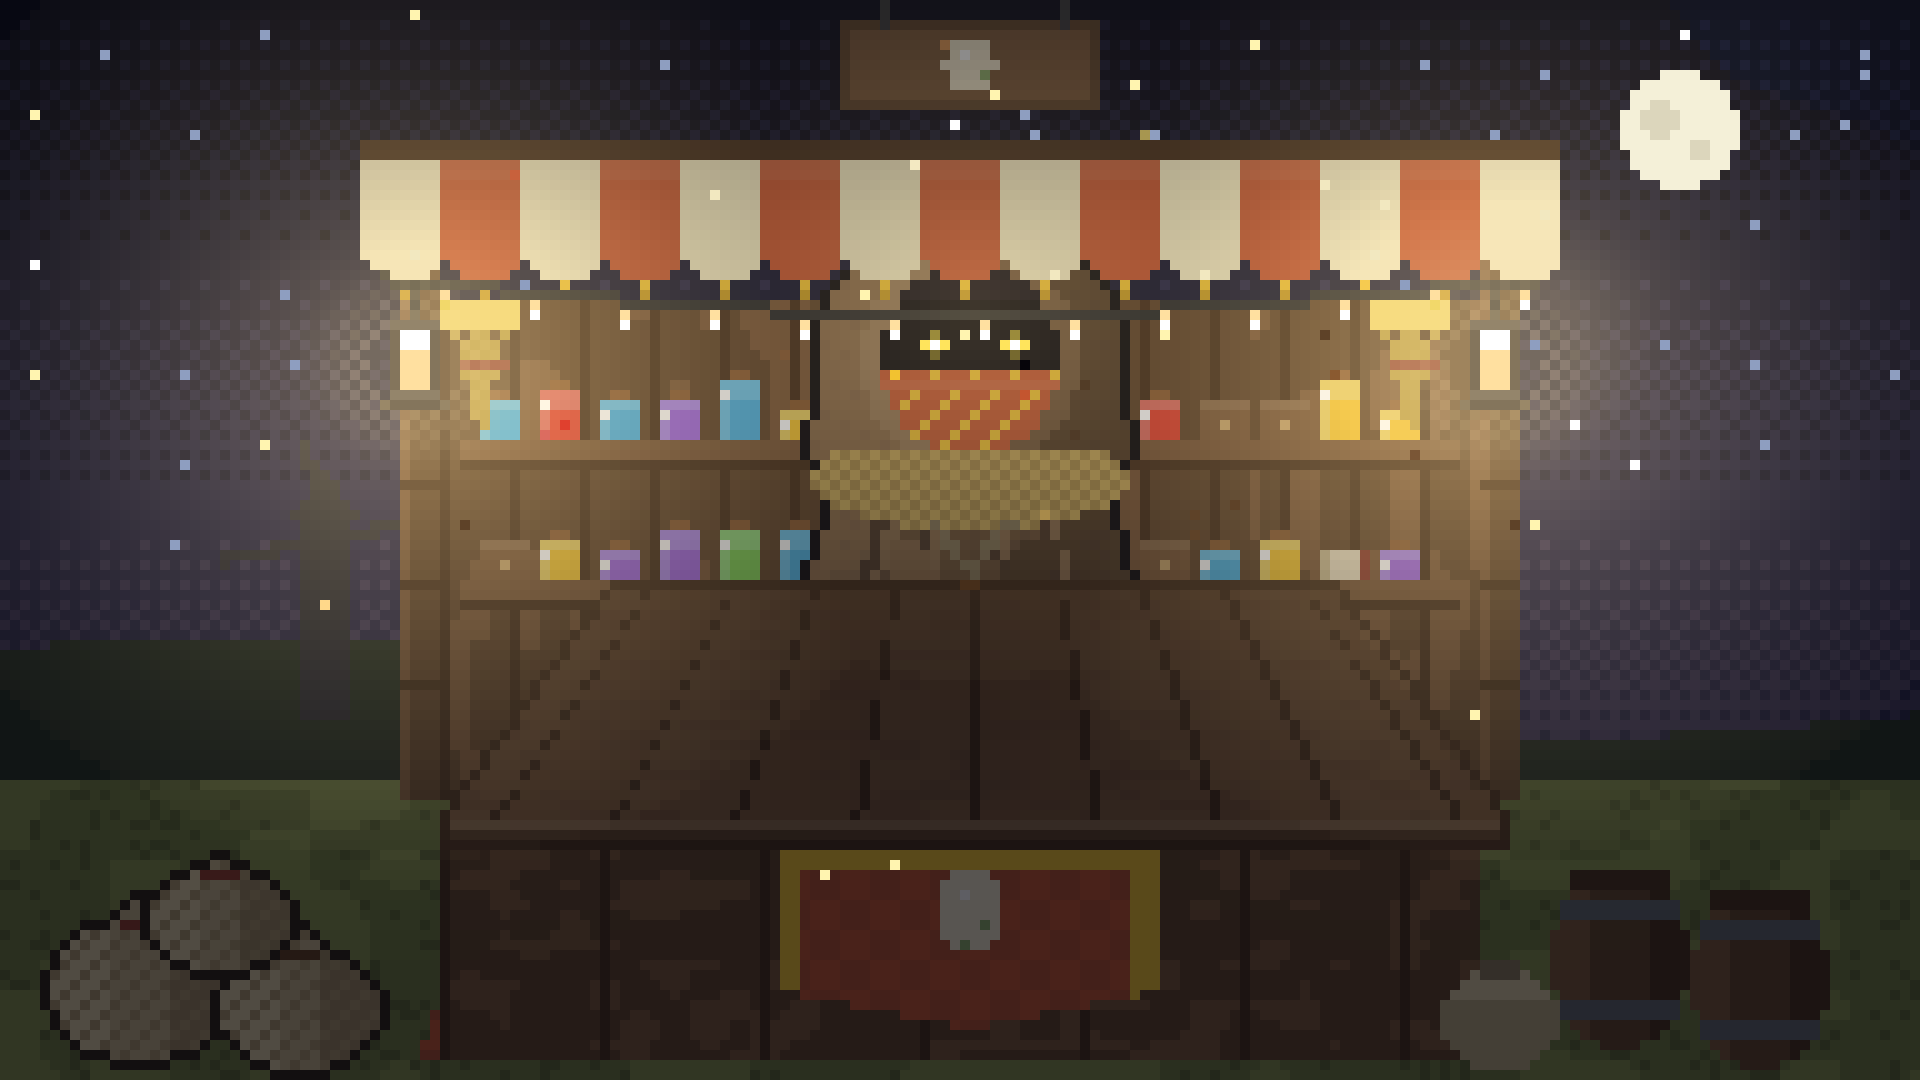
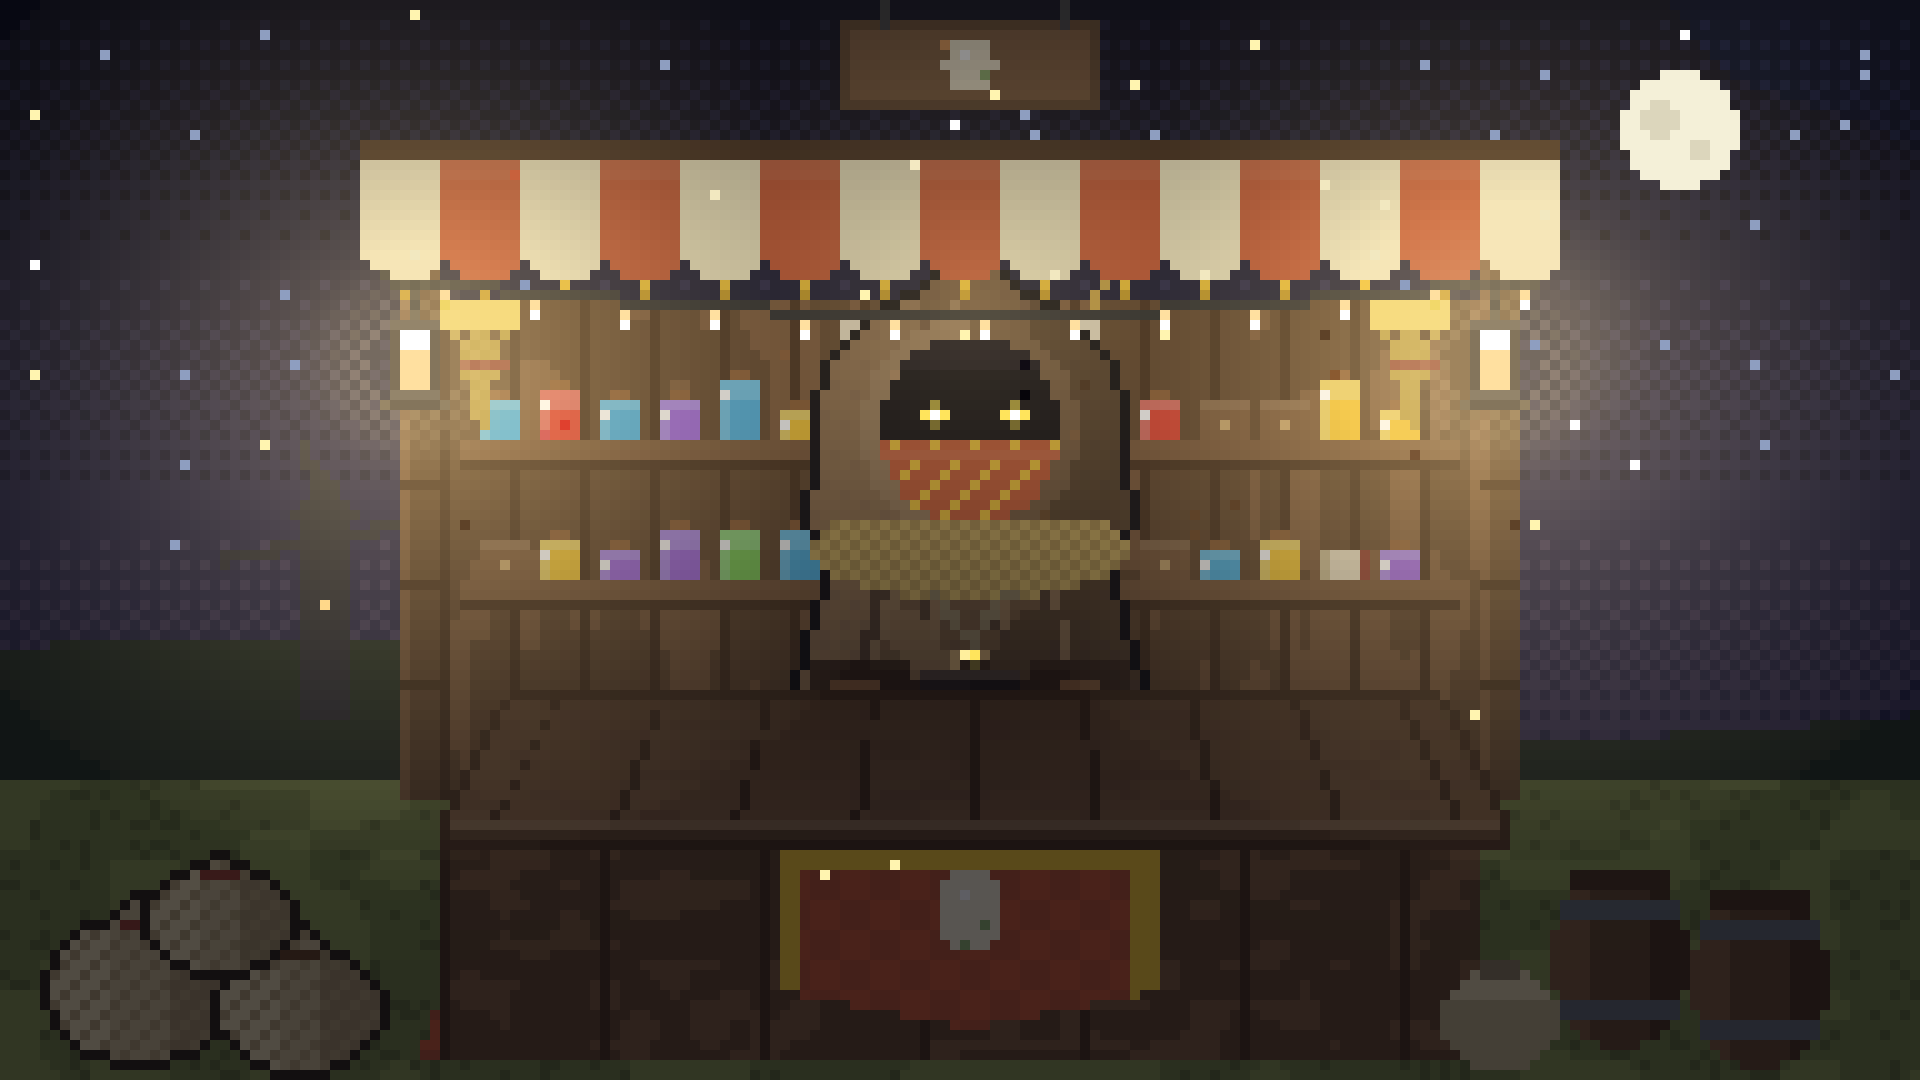
Marchands : plateau du comptoir à peine plus profond que les caisses, et étroit

Changed region(s): [[0.3125, 0.2444, 0.75, 0.6417], [0.5938, 0.6111, 0.625, 0.6417], [0.3438, 0.6111, 0.375, 0.6417]]

diff --git a/style.css b/style.css
@@ -699,7 +699,7 @@
   .dp-luck-pips span { width: 9px; height: 9px; border-radius: 50%; border: 1.5px solid rgba(255,255,255,0.7); }
   .dp-luck-pips span.on { background: #6fd36f; border-color: #6fd36f; }
   .dp-luck-hint { font-size: 11px; opacity: 0.75; }
-  .dp-merchant-table { position: absolute; left: 50%; bottom: 30%; transform: translateX(-50%); z-index: 2; display: flex; gap: calc(var(--u) * 0.6); padding: 0; flex-wrap: nowrap; justify-content: center; align-items: flex-end; width: 56%; }
+  .dp-merchant-table { position: absolute; left: 50%; bottom: 28.5%; transform: translateX(-50%); z-index: 2; display: flex; gap: calc(var(--u) * 0.6); padding: 0; flex-wrap: nowrap; justify-content: center; align-items: flex-end; width: 56%; }
   .dp-merchant-card { background: rgba(255,255,255,0.16); backdrop-filter: blur(5px); -webkit-backdrop-filter: blur(5px); border: 2px solid rgba(255,255,255,0.4); border-radius: 12px; padding: 14px; display: flex; flex-direction: column; align-items: center; gap: 6px; width: 168px; box-shadow: 0 6px 14px rgba(0,0,0,0.4); flex: none; }
   .dp-merchant-card { flex: none; width: calc(var(--u) * 10.2); padding: calc(var(--u) * 0.6) !important; border-radius: calc(var(--u) * 0.6) !important; gap: calc(var(--u) * 0.25) !important; }
   .dp-merchant-card .dp-egg-img { width: calc(var(--u) * 5.4); height: calc(var(--u) * 5.4); }
@@ -710,7 +710,7 @@
   .dp-merchant-card[onclick] { cursor: pointer; }
   .dp-merchant-card-selected { border-color: var(--accent); box-shadow: 0 0 0 3px var(--accent-soft), 0 6px 14px rgba(0,0,0,0.4); }
 
-  .dp-merchant-table-objects { justify-content: center; gap: calc(var(--u) * 0.4); bottom: 30%; }
+  .dp-merchant-table-objects { justify-content: center; gap: calc(var(--u) * 0.4); bottom: 28.5%; }
 
   .dp-crate-card { position: relative; width: calc(var(--u) * 7.2); height: calc(var(--u) * 6.9); flex: none; display: flex; align-items: flex-end; justify-content: center; }
   .dp-crate-card .dp-crate-img, .dp-crate-card .dp-object-icon { width: 100%; height: 100%; object-fit: contain; object-position: bottom; filter: drop-shadow(0 4px 8px rgba(0,0,0,0.5)); transition: transform .15s ease; }

diff --git a/index.html b/index.html
@@ -15,7 +15,7 @@
 <link rel="preconnect" href="https://fonts.googleapis.com">
 <link rel="preconnect" href="https://fonts.gstatic.com" crossorigin>
 <link href="https://fonts.googleapis.com/css2?family=Press+Start+2P&family=Public+Sans:wght@400;500;600;700;800&display=swap" rel="stylesheet">
-<link rel="stylesheet" href="style.css?v=70">
+<link rel="stylesheet" href="style.css?v=71">
 <link rel="stylesheet" href="https://cdn.jsdelivr.net/npm/katex@0.16.11/dist/katex.min.css">
 <script src="https://cdn.jsdelivr.net/npm/katex@0.16.11/dist/katex.min.js"></script>
 <script src="https://cdn.jsdelivr.net/npm/katex@0.16.11/dist/contrib/auto-render.min.js"></script>
@@ -44,16 +44,16 @@
 </div>
 <div id="app"></div>
 <div class="toast-stack" id="toastStack"></div>
-<script src="js/01-core.js?v=173"></script>
-<script src="js/02-ia.js?v=173"></script>
-<script src="js/03-podcast-methodo.js?v=173"></script>
-<script src="js/04-prepa.js?v=173"></script>
-<script src="js/05-data-dinopark.js?v=173"></script>
-<script src="js/06-pages.js?v=173"></script>
-<script src="js/07-editeur-outils.js?v=173"></script>
-<script src="js/08-fenetres.js?v=173"></script>
-<script src="js/09-app.js?v=173"></script>
-<script src="js/10-calendrier-aujourdhui.js?v=173"></script>
-<script src="js/11-routeur-demarrage.js?v=173"></script>
+<script src="js/01-core.js?v=174"></script>
+<script src="js/02-ia.js?v=174"></script>
+<script src="js/03-podcast-methodo.js?v=174"></script>
+<script src="js/04-prepa.js?v=174"></script>
+<script src="js/05-data-dinopark.js?v=174"></script>
+<script src="js/06-pages.js?v=174"></script>
+<script src="js/07-editeur-outils.js?v=174"></script>
+<script src="js/08-fenetres.js?v=174"></script>
+<script src="js/09-app.js?v=174"></script>
+<script src="js/10-calendrier-aujourdhui.js?v=174"></script>
+<script src="js/11-routeur-demarrage.js?v=174"></script>
 </body>
 </html>

diff --git a/js/01-core.js b/js/01-core.js
@@ -2,7 +2,7 @@
 // Studino — stockage, images, audio, schémas
 // Fichier chargé dans l'ordre par index.html : les fichiers partagent les mêmes variables globales.
 
-  var APP_VERSION = "14.1"; // +0.1 à chaque push sur GitHub, pour que l'utilisateur puisse vérifier qu'il a bien la dernière version
+  var APP_VERSION = "14.2"; // +0.1 à chaque push sur GitHub, pour que l'utilisateur puisse vérifier qu'il a bien la dernière version
   // Installation sur l'écran d'accueil : Chrome/Edge/Android proposent l'installation par un événement
   // qu'on garde pour le bouton des paramètres ; l'iPhone n'en a pas, on explique la marche à suivre.
   var installPromptEvent = null;

diff --git a/sw.js b/sw.js
@@ -2,7 +2,7 @@
 // Pages, scripts et styles : toujours la version en ligne d'abord (pour avoir les mises à jour),
 // la copie gardée seulement si le réseau ne répond pas. Images et sons : la copie gardée d'abord.
 // Les autres sites (IA Gemini, bibliothèques) ne passent pas par ici.
-var CACHE = "studino-v9"; // à changer quand les images changent : les anciennes copies en cache sont supprimées
+var CACHE = "studino-v10"; // à changer quand les images changent : les anciennes copies en cache sont supprimées
 
 self.addEventListener("install", function () { self.skipWaiting(); });
 self.addEventListener("activate", function (e) {
